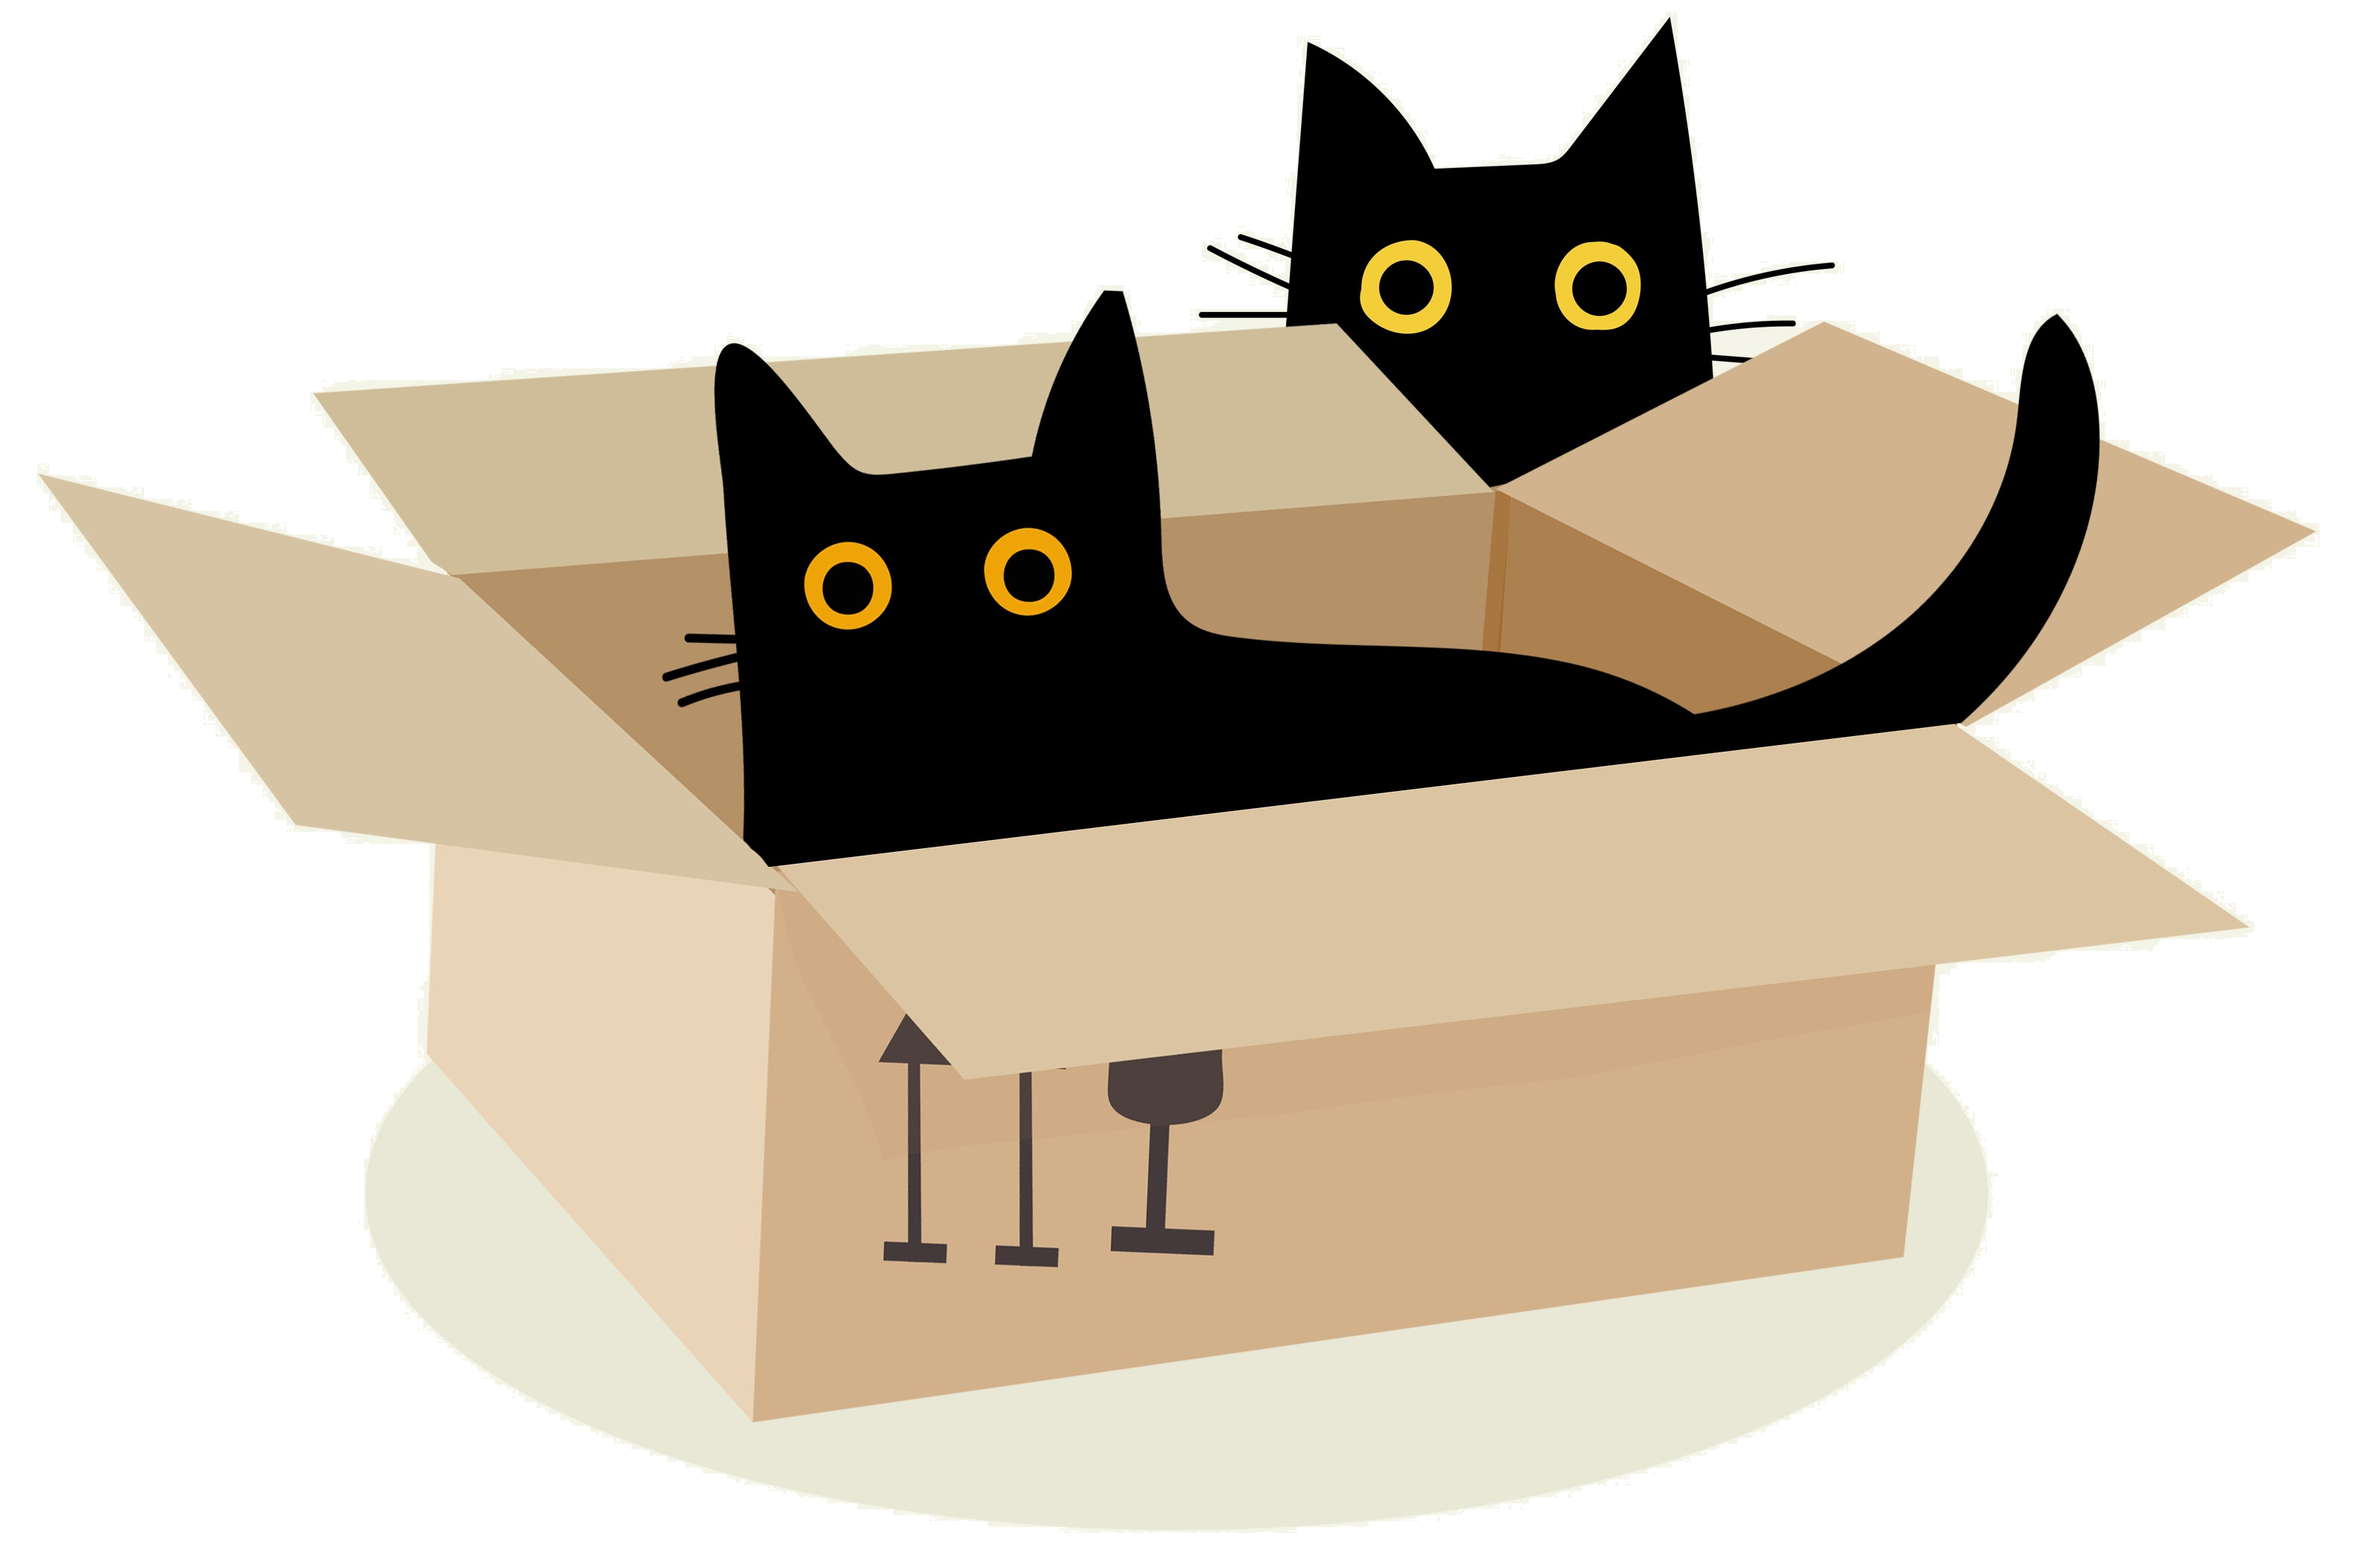
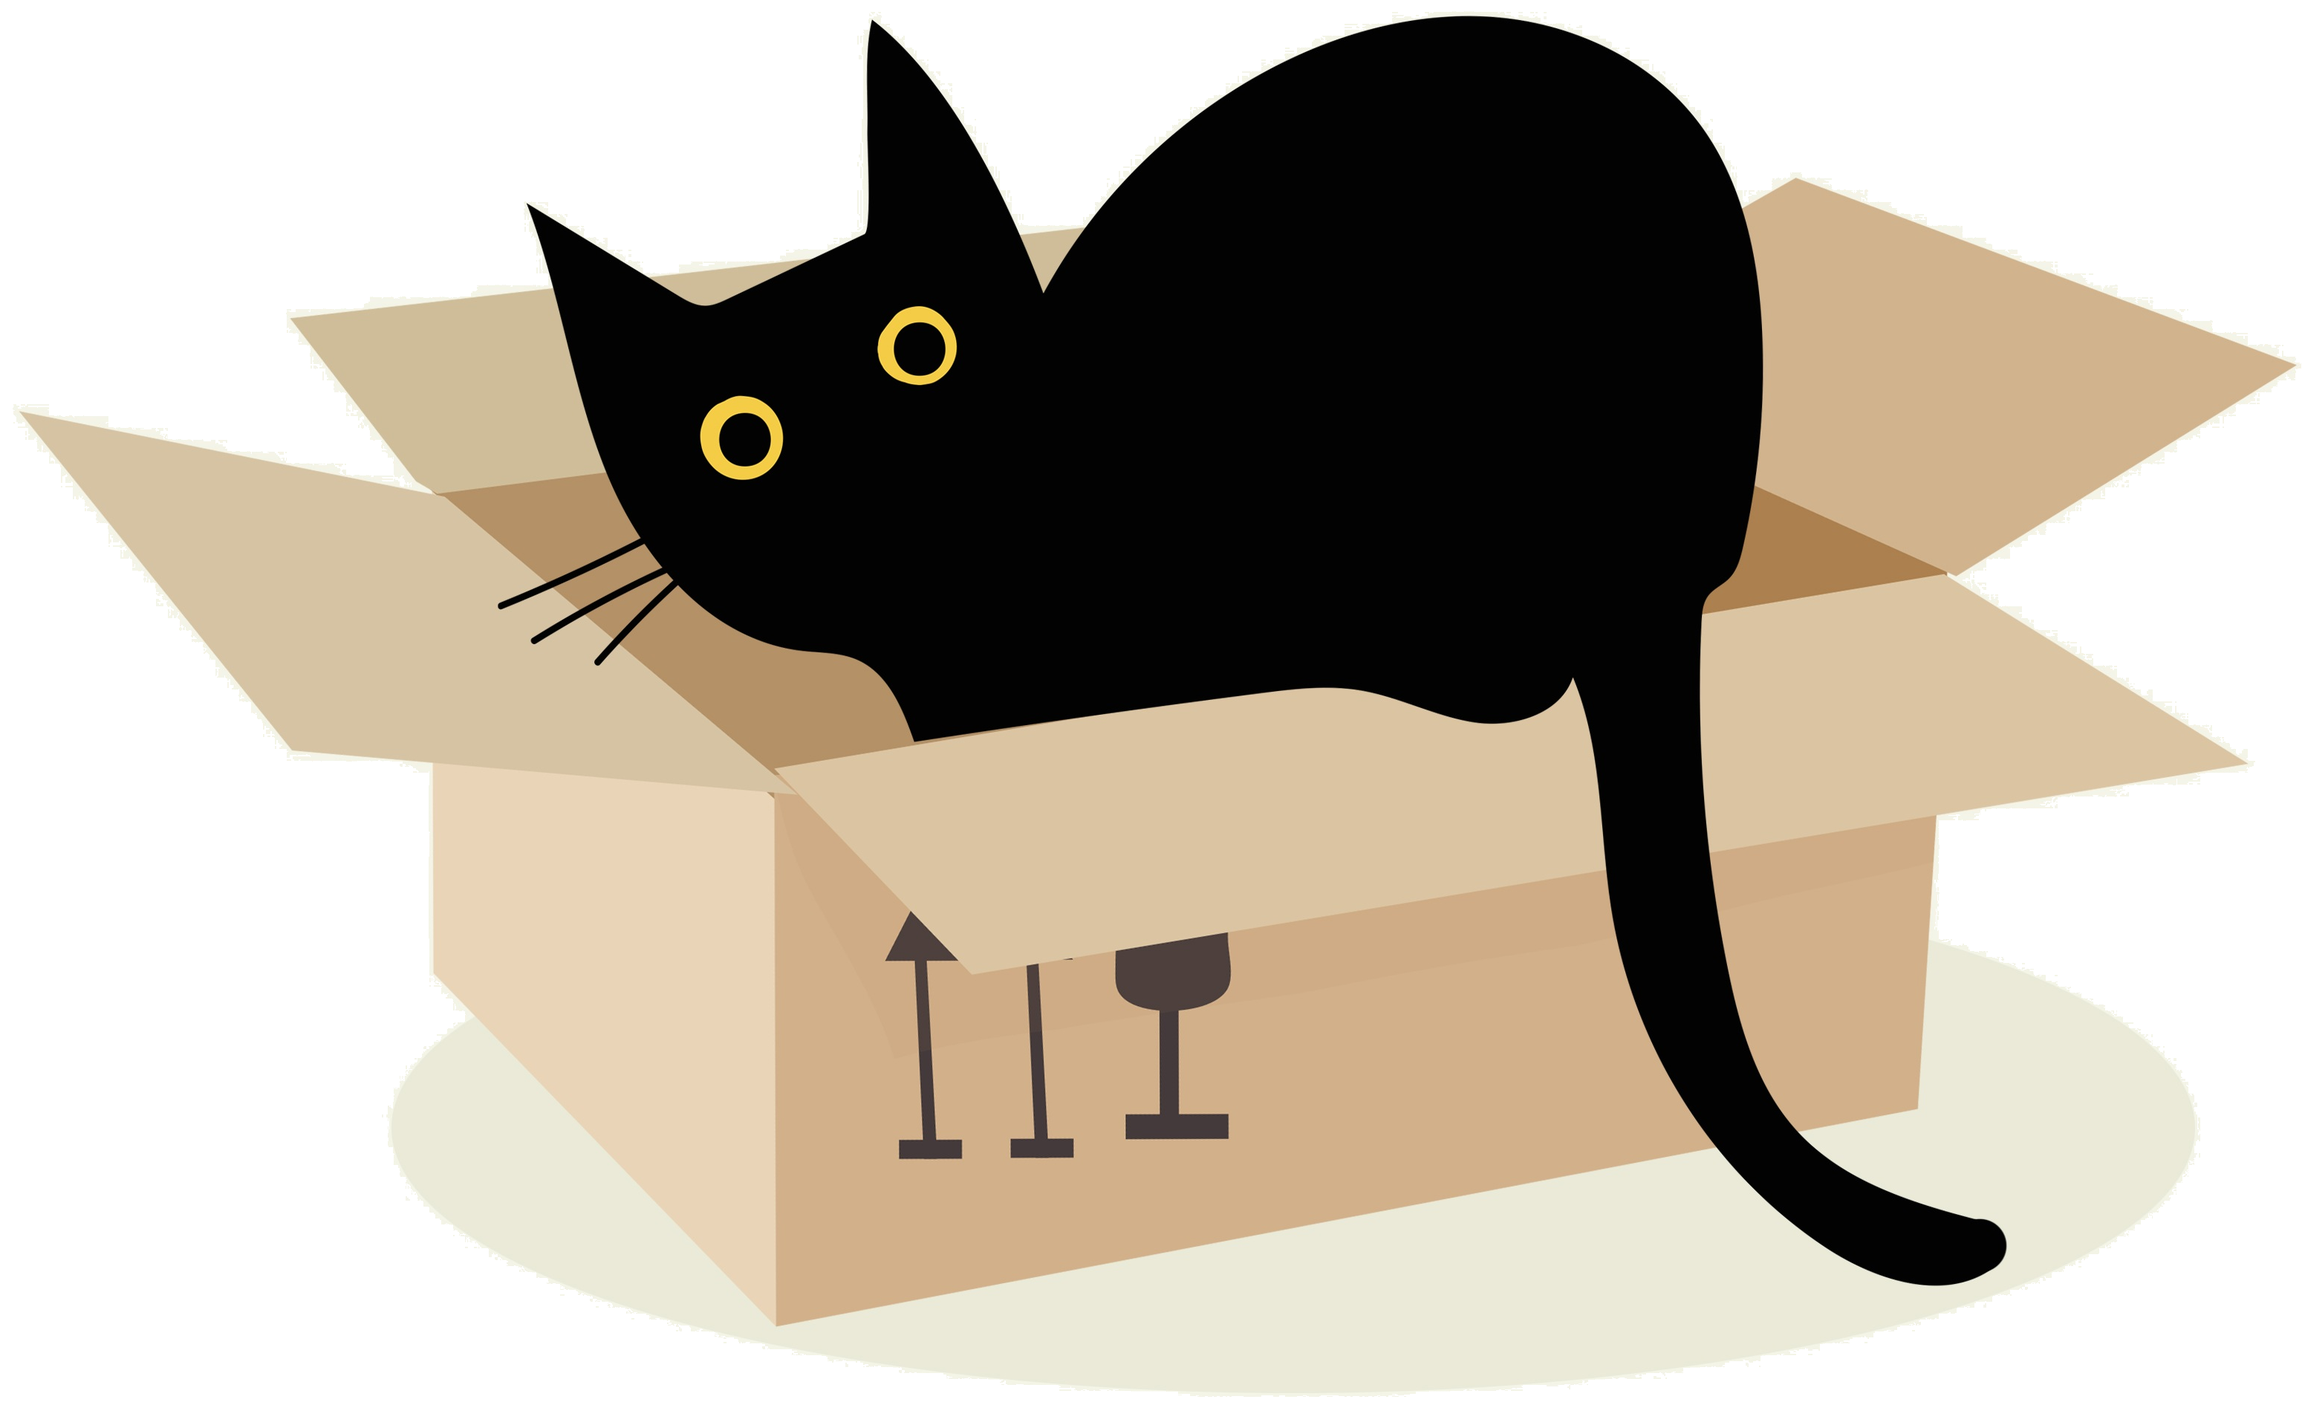
Added 404 and 500 error code templates

diff --git a/finder_proj/search/templates/results.html b/finder_proj/search/templates/results.html
@@ -10,58 +10,57 @@
 {% endblock title %}
 
 {% block content %}
-   <div class="topnav">
-     <a href='{% url "search:search" %}'>
-       <img src='{% static "logo.svg" %}' alt="Finder Logo" width="76.813px">
-     </a>
-     <div class="search-container">
-       <form action="/search/">
-         <input type="text" value="{{ query }}" placeholder="Search.." name="q" autocomplete="off" list="common" id="search">
-		 <datalist id="common"></datalist>
-         <button type="submit"><i class="fa fa-search"></i></button>
-       </form>
-     </div>
-   </div>
-   
-   <main>
-     <p>{{ total|intcomma }} pages found</p>
-     
-     {% extensions_html query as ext %}
-     {% if ext.ext_match %}
-        <div class="box" id="ext">
-            {{ ext.ext_html|safe }}
-        </div>
-      <hr>
-     {% endif %}
-        
-     {% for x in results %}
-        <div class="page box">
-          <h3 class="title" style="--favicon: url('{% favicon x %}')"><a href="{{ x.url }}">{{ x.title }}</a></h3>
-          <p class="url">{{ x.url }}</p>
-          <p class="desc">{{ x.desc }}</p>
-          <p class="content">{{ x.content }}...</p>
-        </div>
-     {% empty %}
-        <div class="not-found">
-          <div class="container">
-            <img src="{% static 'cat-in-a-box.png' %}">
-            <div>
-              <div class="desc">
-                <h2>Looks like it's empty in here!</h2>
-                <p>The cats looked around and nothing turned up. Oh well.</p>
-                <p>Some things to try:</p>
-                <ul>
-                  <li>Use fewer and more common keywords. For example: instead of <em>"what is pneumonoultramicroscopicsilicovolcanoconiosis"</em> try <em>"silicosis"</em>.</li>
-                  <li>Ask <a href="/find4u">Find4U</a> for help instead. It might be a bit smarter.</li>
-                </ul>
-              </div>
-              <div class="attr">Image by <a href="https://pixabay.com/users/biancavandijk-9606149/?utm_source=link-attribution&utm_medium=referral&utm_campaign=image&utm_content=8702528">Bianca Van Dijk</a> from <a href="https://pixabay.com//?utm_source=link-attribution&utm_medium=referral&utm_campaign=image&utm_content=8702528">Pixabay</a></div>
-            </div>
+  <div class="topnav">
+    <a href='{% url "search:search" %}'>
+      <img src='{% static "logo.svg" %}' alt="Finder Logo" width="76.813px">
+    </a>
+    <div class="search-container">
+      <form action="/search/">
+        <input type="text" value="{{ query }}" placeholder="Search.." name="q" autocomplete="off" list="common" id="search">
+        <datalist id="common"></datalist>
+        <button type="submit"><i class="fa fa-search"></i></button>
+      </form>
+    </div>
+  </div>
+
+  <main>
+    <p>{{ total|intcomma }} pages found</p>
+
+    {% extensions_html query as ext %}
+    {% if ext.ext_match %}
+    <div class="box" id="ext">
+        {{ ext.ext_html|safe }}
+    </div>
+    <hr>
+    {% endif %}
+
+    {% for x in results %}
+    <div class="page box">
+      <h3 class="title" style="--favicon: url('{% favicon x %}')"><a href="{{ x.url }}">{{ x.title }}</a></h3>
+      <p class="url">{{ x.url }}</p>
+      <p class="desc">{{ x.desc }}</p>
+      <p class="content">{{ x.content }}...</p>
+    </div>
+    {% empty %}
+    <div class="error">
+      <div class="container">
+        <img src="{% static 'cat-in-a-box.png' %}">
+        <div>
+          <div class="desc">
+            <h2>Looks like it's empty in here!</h2>
+            <p>The cats looked around and nothing turned up. Oh well.</p>
+            <p>Some things to try:</p>
+            <ul>
+              <li>Use fewer and more common keywords. For example: instead of <em>"what is pneumonoultramicroscopicsilicovolcanoconiosis"</em> try <em>"silicosis"</em>.</li>
+              <li>Ask <a href="/find4u">Find4U</a> for help instead. It might be a bit smarter.</li>
+            </ul>
           </div>
+          <div class="attr">Image by <a href="https://pixabay.com/users/biancavandijk-9606149/?utm_source=link-attribution&utm_medium=referral&utm_campaign=image&utm_content=8702528">Bianca Van Dijk</a> from <a href="https://pixabay.com//?utm_source=link-attribution&utm_medium=referral&utm_campaign=image&utm_content=8702528">Pixabay</a></div>
         </div>
-     {% endfor %}
-     <br>
-   </main>
+      </div>
+    </div>
+    {% endfor %}
+  </main>
 {% endblock content %}
 
 {% block scripts %}

diff --git a/finder_proj/search/static/styles.css b/finder_proj/search/static/styles.css
@@ -6,7 +6,7 @@ div.fullscreen-search {
   align-items: center;
   align-content: center;
   height: 100vh;
-  width: 100vw - 16px;
+  width: 100vw;
   text-align: center;
   & div {
     max-width: 300px;
@@ -14,7 +14,8 @@ div.fullscreen-search {
 }
 
 main {
-  padding-inline: 16px;
+  padding: 16px;
+  padding-top: 0;
 }
 
 .topnav {
@@ -148,7 +149,7 @@ main {
   }
 }
 
-.not-found {
+.error {
   display: flex;
   justify-content: center;
   width: 100%;
@@ -157,24 +158,46 @@ main {
     display: inline-flex;
     justify-content: center;
     width: 800px;
+    height: 400px;
     gap: 1ch;
+
     & > * { 
       display: flex;
       width: min(400px, 100%);
+    }
+
+    & > div {
       flex-direction: column;
       justify-content: space-between;
+      height: min(400px, 100%);
     }
+
+    img {
+      width: min(400px, 100%);
+      height: min(400px, 100%);
+      object-fit: contain; // or 'cover' depending on whether you want cropping
+    }
+
     .desc * {
       margin-top: 0;
       hyphens: auto; 
     }
+
     .attr { font-style: italic; }
   }
 }
 
 @media (max-width: 800px) {
-  .not-found .container {
+  .error .container {
     width: 400px;
     flex-direction: column;
   }
+}
+
+.vertical-center {
+  display: grid;
+  justify-content: center;
+  align-items: center;
+  align-content: center;
+  height: 100svh;
 }

diff --git a/finder_proj/search/templates/404.html b/finder_proj/search/templates/404.html
@@ -1,0 +1,23 @@
+{% extends "master.html" %}
+{% load static %}
+
+{% block title %}
+  Nothing to see here... (404)
+{% endblock title %}
+
+{% block content %}
+  <div class="vertical-center error">
+    <div class="container">
+      <img src="{% static 'cats-around-a-box.png' %}">
+      <div>
+        <div class="desc">
+          <h2>Nothing to see here...</h2>
+          <p>The cats looked everywhere, but they couldn't find the page you wanted. (HTTP Error 404 Not Found)</p>
+          <p><strong>Did a link lead you here?</strong> If so, the link is broken, and probably has been for a long time. If you can, reach out to the authors of the link and ask them if they could fix it. (Be respectful!)</p>
+          <p><strong>Feeling lost?</strong> That's okay. Slowly breathe in and out. You can <a href="/">click here to get home</a>.</p>
+        </div>
+        <div class="attr">Image by <a href="https://pixabay.com/users/biancavandijk-9606149/?utm_source=link-attribution&utm_medium=referral&utm_campaign=image&utm_content=8702528">Bianca Van Dijk</a> from <a href="https://pixabay.com//?utm_source=link-attribution&utm_medium=referral&utm_campaign=image&utm_content=8702528">Pixabay</a></div>
+      </div>
+    </div>
+  </div>
+{% endblock %}

diff --git a/finder_proj/search/templates/500.html b/finder_proj/search/templates/500.html
@@ -1,0 +1,23 @@
+{% extends "master.html" %}
+{% load static %}
+
+{% block title %}
+  Oops! (500)
+{% endblock title %}
+
+{% block content %}
+  <div class="vertical-center error">
+    <div class="container">
+      <img src="{% static 'cat-eating-a-plant.png' %}">
+      <div>
+        <div class="desc">
+          <h2>Oops!</h2>
+          <p>The cats knocked something over in the server room. We're cleaning up the mess. (HTTP Error 500 Server Error)</p>
+          <p><strong>Annoyed?</strong> That's okay. Take a deep breath. If you have a GitHub account, you can report this bug <a href="https://github.com/tiash-and-cats/finder/issues/new">here</a>.</p>
+          <p><strong>Feeling lost?</strong> That's also fine. You can <a href="/">click here to get home</a>.</p>
+        </div>
+        <div class="attr">Image by <a href="https://pixabay.com/users/biancavandijk-9606149/?utm_source=link-attribution&utm_medium=referral&utm_campaign=image&utm_content=8702528">Bianca Van Dijk</a> from <a href="https://pixabay.com//?utm_source=link-attribution&utm_medium=referral&utm_campaign=image&utm_content=8702528">Pixabay</a></div>
+      </div>
+    </div>
+  </div>
+{% endblock %}

diff --git a/finder_proj/search/views.py b/finder_proj/search/views.py
@@ -21,7 +21,8 @@ def parse_query(query):
 
     qexp = Q()
     for x in splitquery:
-        qexp &= Q(keywds__icontains=x) | Q(title__icontains=x) | Q(content__icontains=x)
+        qexp &= Q(keywds__icontains=x) | Q(title__icontains=x) | \
+                Q(content__icontains=x)
 
     if site:
         qexp &= Q(url__icontains=site)
@@ -58,7 +59,8 @@ def search_results(request):
             'query': query,
             'total': len(scored),
             'results': scored,
-            "common": list(CommonSearch.objects.order_by("-count").values_list("phrase", flat=True))[:100]
+            "common": list(CommonSearch.objects.order_by("-count"). \
+                      values_list("phrase", flat=True))[:100]
         }
         template = loader.get_template('results.html')
         return HttpResponse(template.render(context, request))
@@ -69,15 +71,16 @@ def indexed(request):
     indexed = Indexed.objects.all().order_by("-rank").values()
     template = loader.get_template('indexed.html')
     context = {
-      'indexed': indexed,
-      "total": len(indexed)
+        'indexed': indexed,
+        "total": len(indexed)
     }
     return HttpResponse(template.render(context, request))
 
 def search(request):
     template = loader.get_template('search.html')
     context = {
-      "common": list(CommonSearch.objects.order_by("-count").values_list("phrase", flat=True))[:100],
-      "prod": not settings.DEBUG
+        "common": list(CommonSearch.objects.order_by("-count") \
+                       .values_list("phrase", flat=True))[:100],
+        "prod": not settings.DEBUG
     }
     return HttpResponse(template.render(context, request))

diff --git a/finder_proj/search/urls.py b/finder_proj/search/urls.py
@@ -2,8 +2,13 @@ from django.urls import path
 from . import views
 
 app_name = "search"
+
+def trigger_error(request):
+    raise Exception("Test 500 error")
+
 urlpatterns = [
     path('', views.search, name='search'),
     path('search/', views.search_results, name='search_results'),
     path('indexed/', views.indexed, name='all_indexed'),
+    path("500/", trigger_error, name="ops"),
 ]

diff --git a/finder_proj/finder_proj/urls.py b/finder_proj/finder_proj/urls.py
@@ -21,7 +21,9 @@ from django.conf import settings
 
 urlpatterns = [
     path('', include('search.urls')),
-    path('repo/', RedirectView.as_view(url='https://github.com/tiash-and-cats/finder/', permanent=True)),
+    path('repo/', RedirectView.as_view(
+        url='https://github.com/tiash-and-cats/finder/', permanent=True
+    )),
 ]
 
 if settings.DEBUG:

diff --git a/finder_proj/finder_proj/settings.py b/finder_proj/finder_proj/settings.py
@@ -66,7 +66,7 @@ ROOT_URLCONF = 'finder_proj.urls'
 TEMPLATES = [
     {
         'BACKEND': 'django.template.backends.django.DjangoTemplates',
-        'DIRS': [],
+        'DIRS': [BASE_DIR / "templates"],
         'APP_DIRS': True,
         'OPTIONS': {
             'context_processors': [
